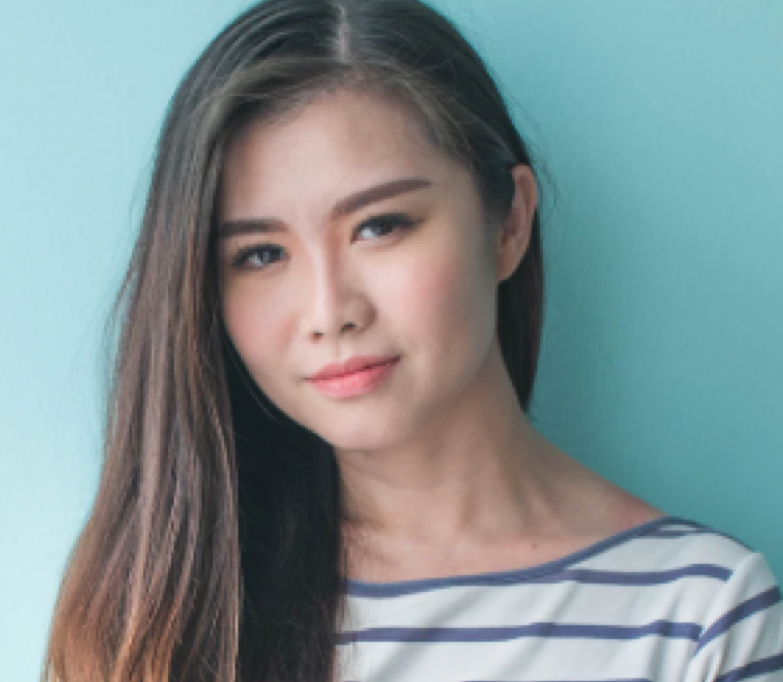
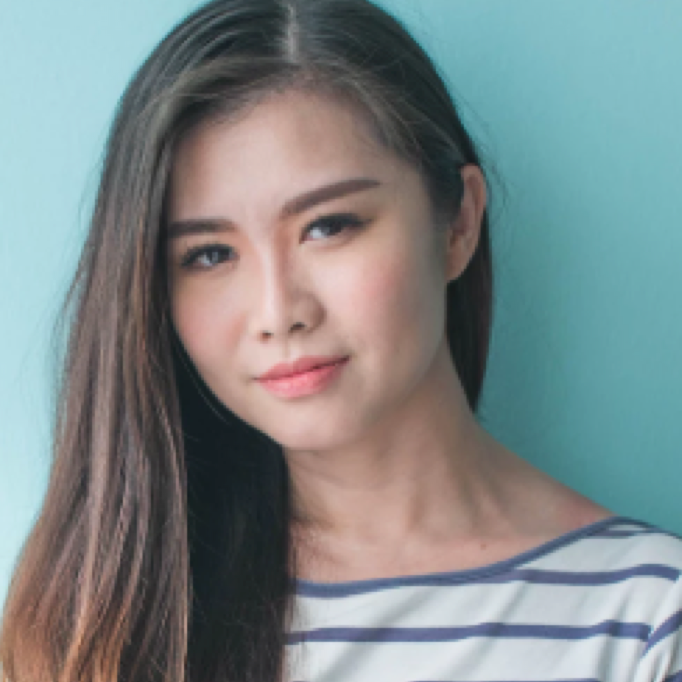
final envio

diff --git a/index.html b/index.html
@@ -72,7 +72,7 @@
         <div class="user-info__thumbnail col-12 col-md-6 col-xl-6">
           <div class="row d-flex align-items-center user-info__thumbnail-mediaquery">
             <div class="col-4">
-              <img src="assets/img/profile-image2.png" alt="Foto de perfil usuario" class="thumbnail thumbnail_tiny">
+              <img src="assets/img/profile-image.png" alt="Foto de perfil usuario" class="thumbnail thumbnail_tiny">
             </div>
 
             <div class="user-info__summary col-8">

diff --git a/assets/sass/layout/_user-info.scss b/assets/sass/layout/_user-info.scss
@@ -38,18 +38,20 @@ border-radius: 50%;
 
 @media (max-width: 576px) {
 
-.user-info__thumbnail-mediaquery {
-	display:flex;
-	align-items: center;
-  	justify-content: center;
+  	.user-info__thumbnail-mediaquery {
+   	position: relative;
+   	left: 60px;
     }
+    
 }
 
 @media (max-width: 768px) {
 
 .user-info__thumbnail-mediaquery {
-	display:flex;
-	align-items: center;
-  	justify-content: center;
+   	position: relative;
+   	left: 60px;
+    }
 }
-}
+
+
+   

diff --git a/assets/css/main.css b/assets/css/main.css
@@ -10320,16 +10320,14 @@ header {
 
 @media (max-width: 576px) {
   .user-info__thumbnail-mediaquery {
-    display: flex;
-    align-items: center;
-    justify-content: center;
+    position: relative;
+    left: 60px;
   }
 }
 @media (max-width: 768px) {
   .user-info__thumbnail-mediaquery {
-    display: flex;
-    align-items: center;
-    justify-content: center;
+    position: relative;
+    left: 60px;
   }
 }
 .main-content__img {
